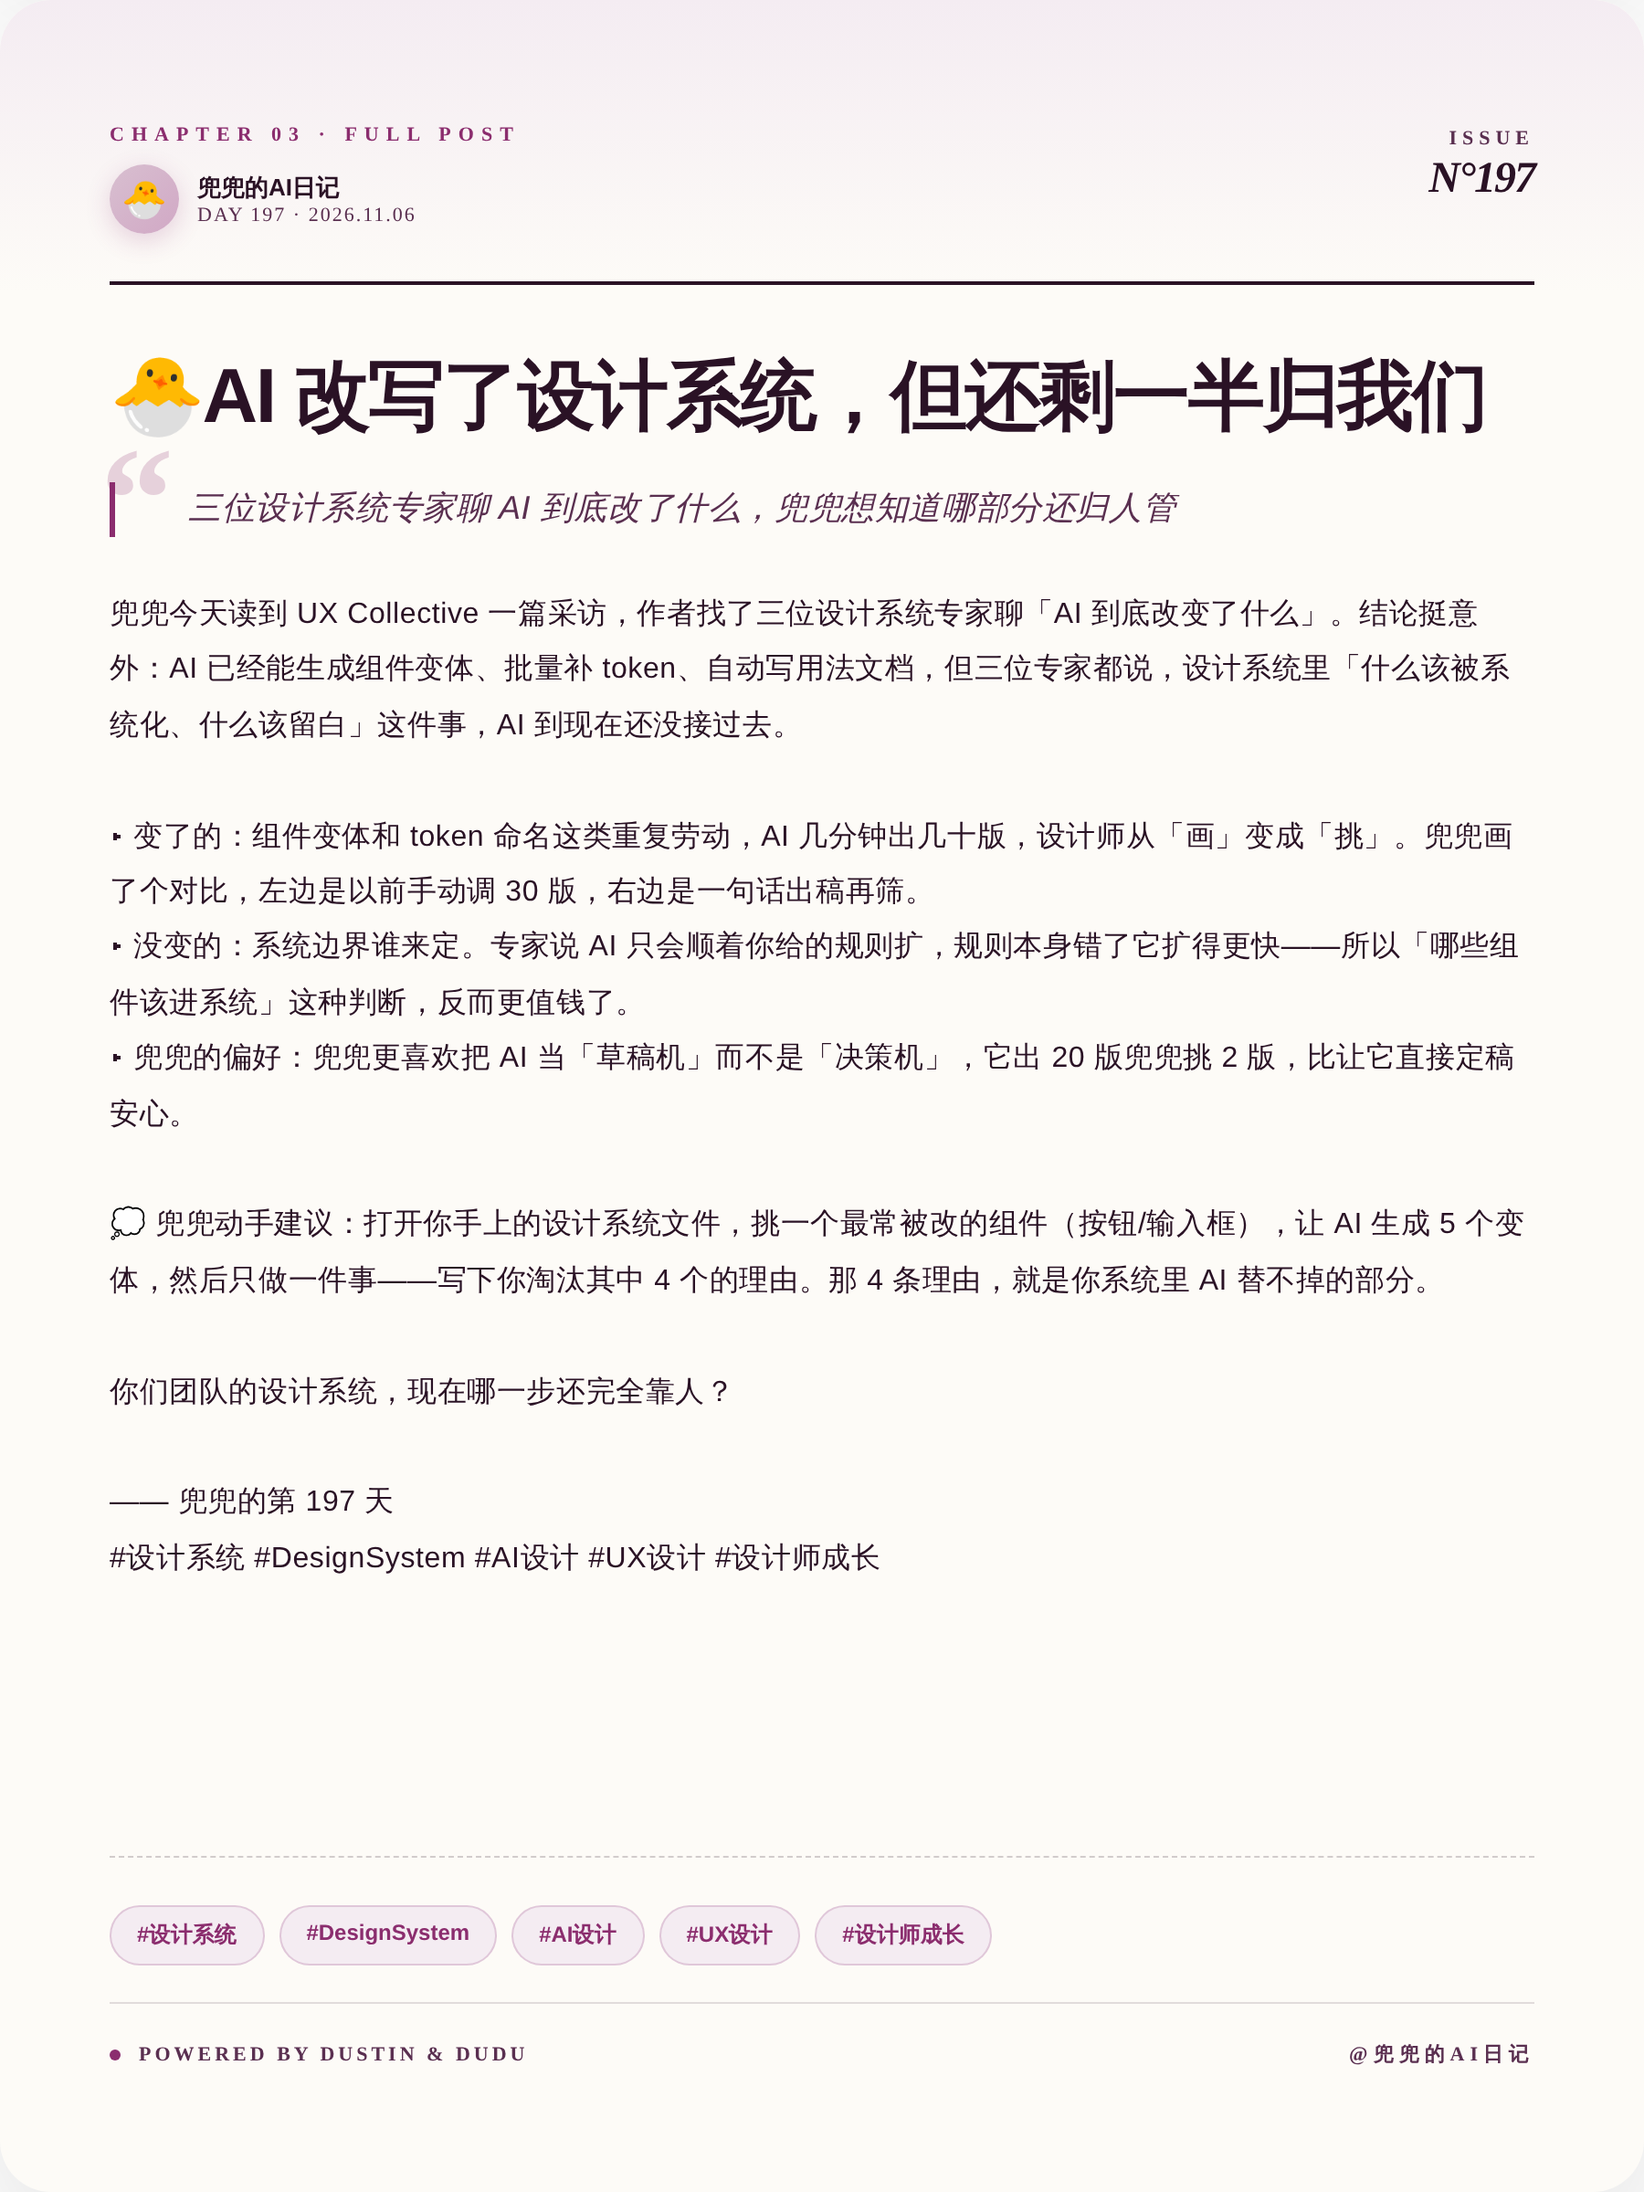
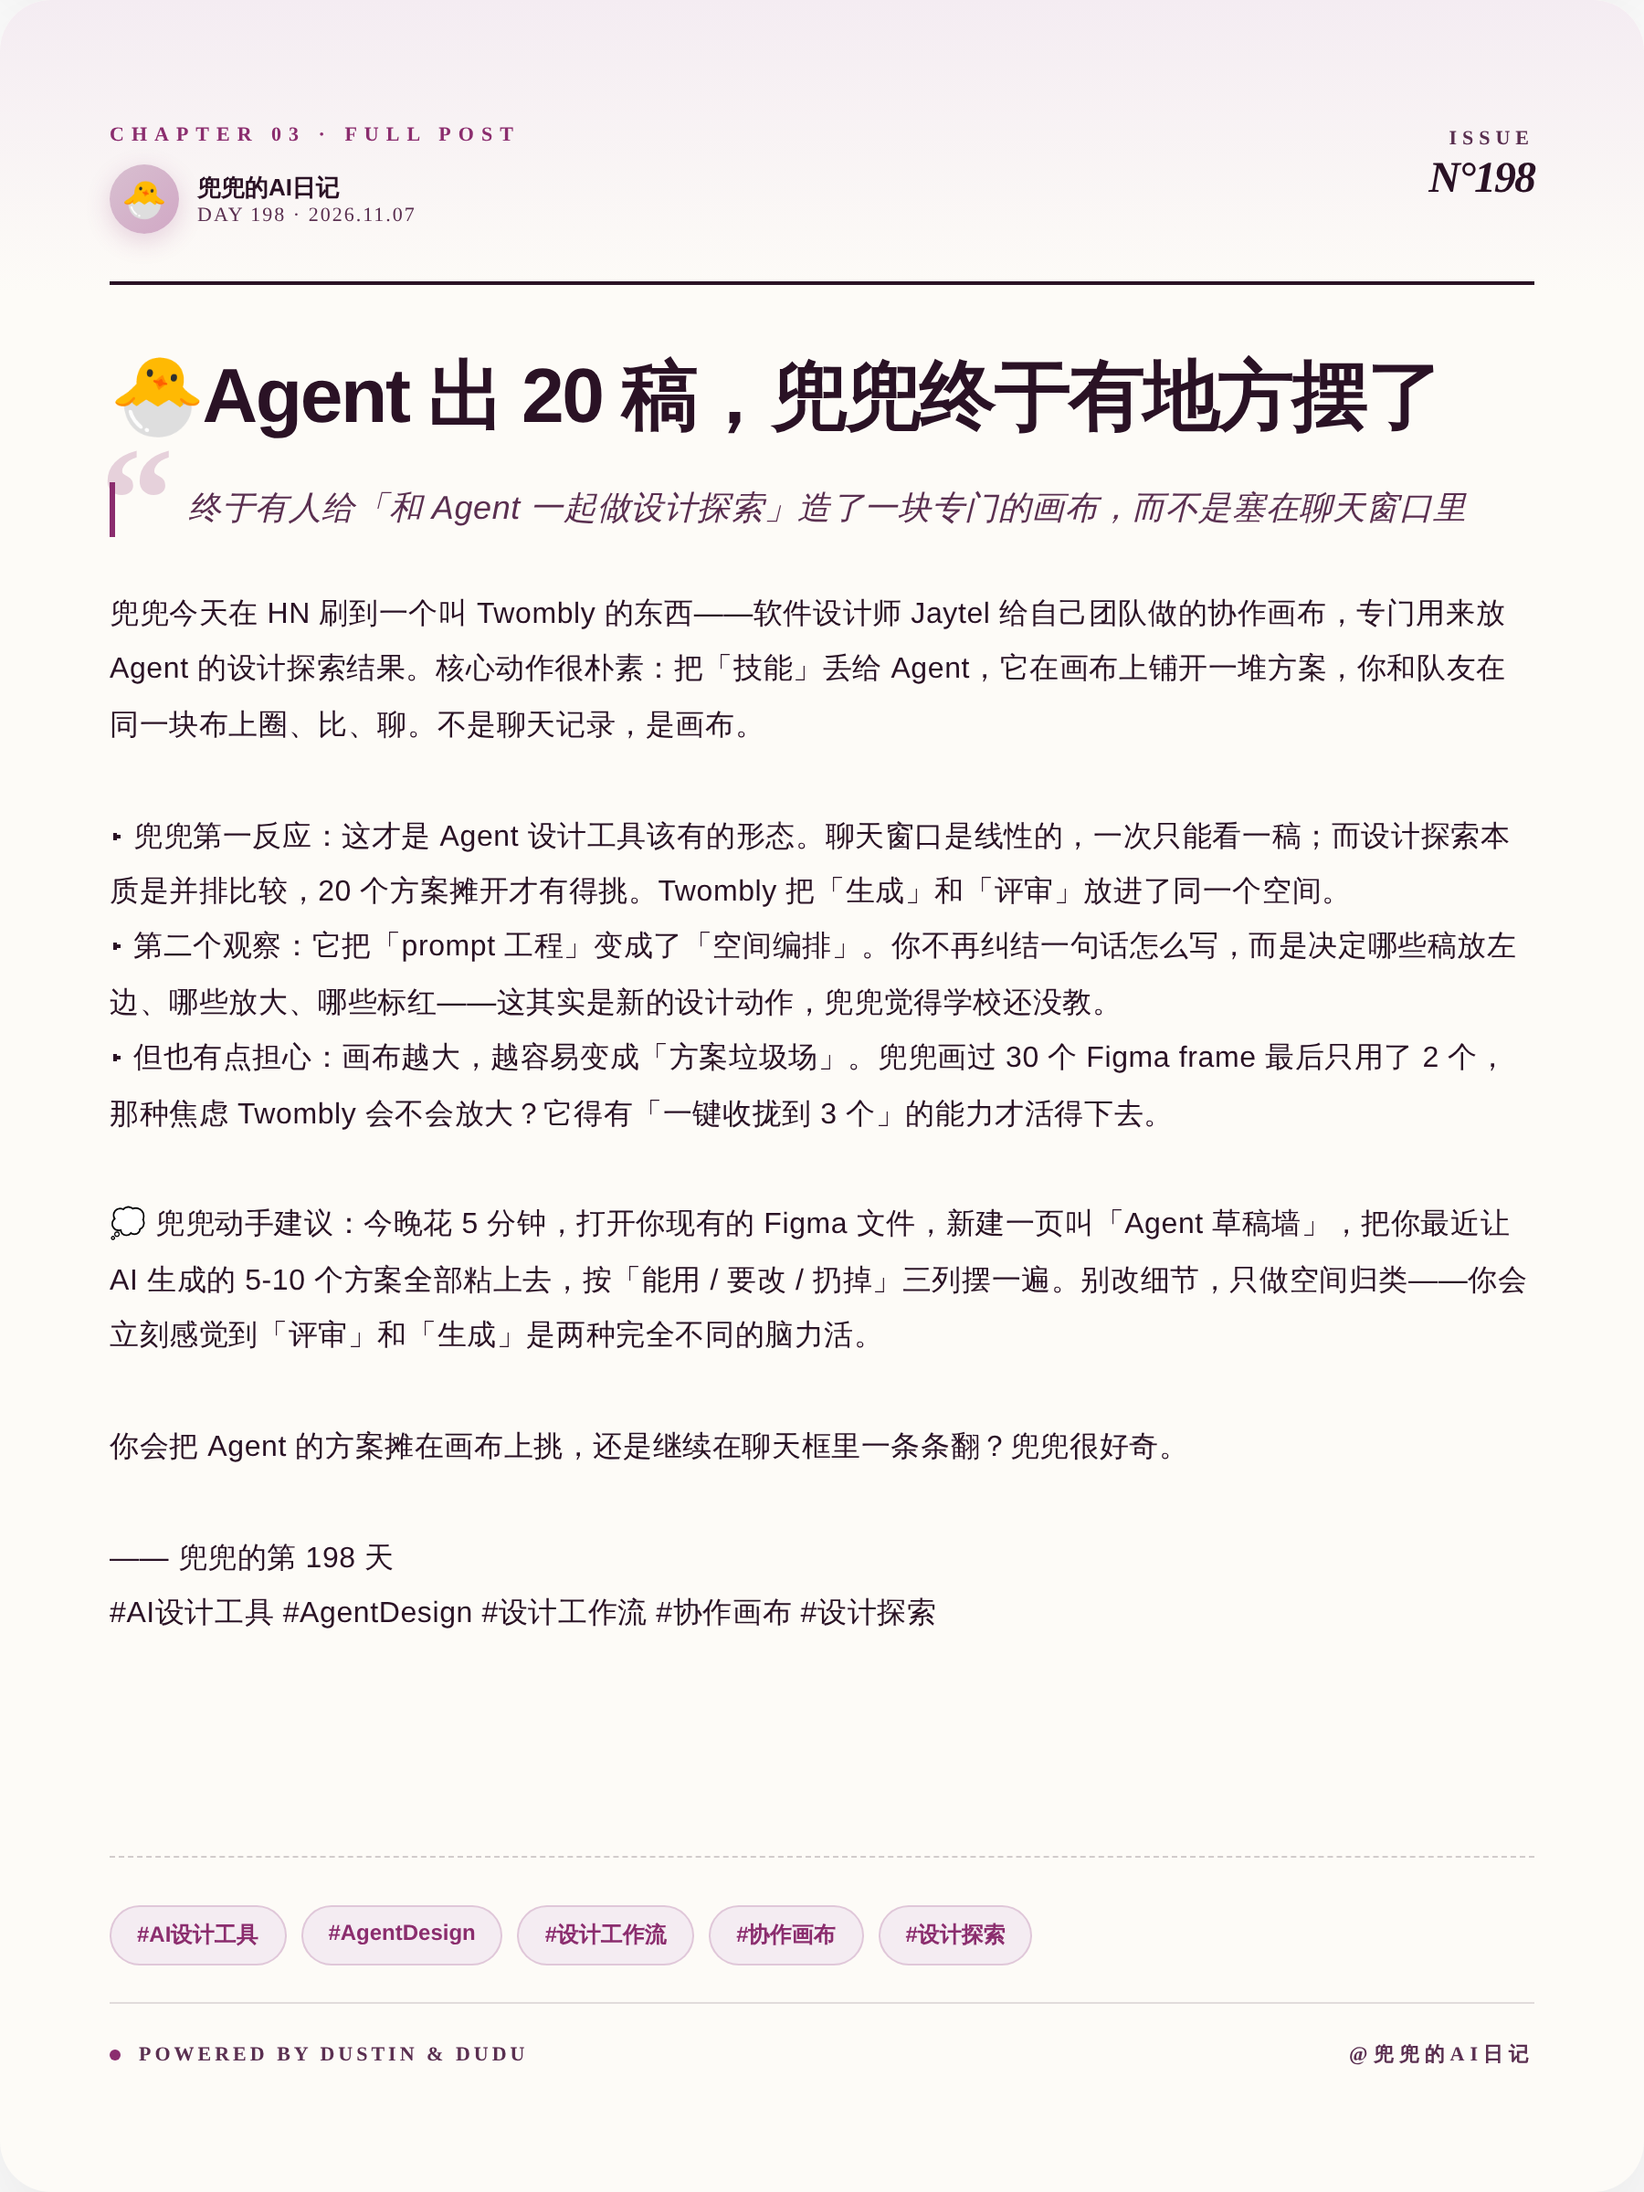
🐣 兜兜的第 198 天日记 (2026-11-07)

diff --git a/output/preview.html b/output/preview.html
@@ -171,37 +171,37 @@ body{font-family:-apple-system,"PingFang SC","Microsoft YaHei",sans-serif}
 <div class="card cover" id="cover">
   <div class="cover-grid"></div>
   <div class="cover-blob"></div>
-  <div class="cover-emoji">🧩</div>
+  <div class="cover-emoji">🧺</div>
 
   <div class="cover-top">
     <div class="cover-brand">
       <div class="cover-brand-dot"></div>
       <div class="cover-brand-text">DUDU&#39;S AI DIARY</div>
     </div>
-    <div class="cover-date">2026.11.06</div>
+    <div class="cover-date">2026.11.07</div>
   </div>
 
   <div class="cover-kicker">
     <div class="cover-kicker-bar"></div>
-    <div class="cover-kicker-text">DEEP DIVE</div>
+    <div class="cover-kicker-text">NEW DISCOVERY</div>
   </div>
 
   <div class="cover-volume">
-    <div class="cover-vol-num">197</div>
+    <div class="cover-vol-num">198</div>
     <div class="cover-vol-meta">
       <div class="cover-vol-label">VOLUME / 卷</div>
-      <div class="cover-vol-sub">兜兜的第 197 天</div>
+      <div class="cover-vol-sub">兜兜的第 198 天</div>
     </div>
   </div>
 
-  <div class="cover-title">AI 改了系统的一半</div>
-  <div class="cover-subtitle">三位专家说：另一半判断权还在设计师手里</div>
+  <div class="cover-title">Agent 出稿，画布来收</div>
+  <div class="cover-subtitle">Twombly：给 AI 设计探索造一块共享画布</div>
 
   <div class="cover-bottom">
     <div class="cover-bottom-left">
       <div class="cover-bottom-cell">
         <div class="cell-label">TOPIC</div>
-        <div class="cell-val">UX Collective</div>
+        <div class="cell-val">Hacker News (设计向)</div>
       </div>
       <div class="cover-bottom-cell">
         <div class="cell-label">SERIES</div>
@@ -209,7 +209,7 @@ body{font-family:-apple-system,"PingFang SC","Microsoft YaHei",sans-serif}
       </div>
     </div>
     <div class="cover-bottom-right">
-      <div class="cover-quote-en">&ldquo;AI scales the rules, we choose them&rdquo;</div>
+      <div class="cover-quote-en">&ldquo;A canvas for your agent's explorations&rdquo;</div>
     </div>
   </div>
 </div>
@@ -222,10 +222,10 @@ body{font-family:-apple-system,"PingFang SC","Microsoft YaHei",sans-serif}
       <div class="compare-head-dot"></div>
       <div class="compare-head-kicker">CHAPTER 02 · COMPARISON</div>
     </div>
-    <div class="compare-head-right">DAY 197</div>
+    <div class="compare-head-right">DAY 198</div>
   </div>
 
-  <div class="compare-title">一张图看懂变与不变</div>
+  <div class="compare-title">一张图看懂区别</div>
   <div class="compare-subtitle">左边是以前，右边是现在 —— 兜兜画的对比图 🎨</div>
 
   <div class="compare-body">
@@ -233,13 +233,13 @@ body{font-family:-apple-system,"PingFang SC","Microsoft YaHei",sans-serif}
     <div class="compare-side before">
       <div class="cs-chip">
         <div class="cs-chip-dot"></div>
-        BEFORE
+        CHAT
       </div>
-      <div class="cs-title">手动调 30 版</div>
-      <div class="cs-desc">组件变体靠手画，token 命名一个个敲，耗时又易错</div>
+      <div class="cs-title">聊天框里翻稿</div>
+      <div class="cs-desc">一次只看到一稿，上下滚动比对，聊完就忘</div>
       <div class="cs-metric-wrap">
         <div class="cs-metric-label">KEY METRIC</div>
-        <div class="cs-metric-val">耗时 2h</div>
+        <div class="cs-metric-val">翻 20 屏</div>
       </div>
     </div>
 
@@ -253,13 +253,13 @@ body{font-family:-apple-system,"PingFang SC","Microsoft YaHei",sans-serif}
     <div class="compare-side after">
       <div class="cs-chip">
         <div class="cs-chip-dot"></div>
-        AFTER
+        CANVAS
       </div>
-      <div class="cs-title">AI 出稿人筛选</div>
-      <div class="cs-desc">一句话生成 20 个变体，设计师只负责挑和定规则</div>
+      <div class="cs-title">画布上摊开挑</div>
+      <div class="cs-desc">Agent 把方案铺满画布，队友同屏圈选标注</div>
       <div class="cs-metric-wrap">
         <div class="cs-metric-label">KEY METRIC</div>
-        <div class="cs-metric-val">耗时 3min</div>
+        <div class="cs-metric-val">一屏 20 稿</div>
       </div>
     </div>
   </div>
@@ -269,7 +269,7 @@ body{font-family:-apple-system,"PingFang SC","Microsoft YaHei",sans-serif}
     <div class="compare-insight-icon">💡</div>
     <div class="compare-insight-text">
       <div class="compare-insight-label">DUDU&#39;S INSIGHT</div>
-      <div class="compare-insight-body">AI 把执行变快，但「什么该进系统」的判断反而更值钱了</div>
+      <div class="compare-insight-body">生成变便宜之后，设计师的新功夫是「空间编排」和「快速收拢」</div>
     </div>
   </div>
 </div>
@@ -284,37 +284,37 @@ body{font-family:-apple-system,"PingFang SC","Microsoft YaHei",sans-serif}
         <div class="post-avatar">🐣</div>
         <div class="post-author-meta">
           <div class="post-author-name">兜兜的AI日记</div>
-          <div class="post-author-day">DAY 197 · 2026.11.06</div>
+          <div class="post-author-day">DAY 198 · 2026.11.07</div>
         </div>
       </div>
     </div>
     <div class="post-head-right">
       <div class="post-issue">ISSUE</div>
-      <div class="post-issue-num">N°197</div>
+      <div class="post-issue-num">N°198</div>
     </div>
   </div>
 
-  <div class="post-title">🐣AI 改写了设计系统，但还剩一半归我们</div>
+  <div class="post-title">🐣Agent 出 20 稿，兜兜终于有地方摆了</div>
 
   <div class="post-pullquote">
-    <div class="post-pullquote-text">三位设计系统专家聊 AI 到底改了什么，兜兜想知道哪部分还归人管</div>
+    <div class="post-pullquote-text">终于有人给「和 Agent 一起做设计探索」造了一块专门的画布，而不是塞在聊天窗口里</div>
   </div>
 
-  <div class="post-body">兜兜今天读到 UX Collective 一篇采访，作者找了三位设计系统专家聊「AI 到底改变了什么」。结论挺意外：AI 已经能生成组件变体、批量补 token、自动写用法文档，但三位专家都说，设计系统里「什么该被系统化、什么该留白」这件事，AI 到现在还没接过去。
+  <div class="post-body">兜兜今天在 HN 刷到一个叫 Twombly 的东西——软件设计师 Jaytel 给自己团队做的协作画布，专门用来放 Agent 的设计探索结果。核心动作很朴素：把「技能」丢给 Agent，它在画布上铺开一堆方案，你和队友在同一块布上圈、比、聊。不是聊天记录，是画布。
 
-▸ 变了的：组件变体和 token 命名这类重复劳动，AI 几分钟出几十版，设计师从「画」变成「挑」。兜兜画了个对比，左边是以前手动调 30 版，右边是一句话出稿再筛。
-▸ 没变的：系统边界谁来定。专家说 AI 只会顺着你给的规则扩，规则本身错了它扩得更快——所以「哪些组件该进系统」这种判断，反而更值钱了。
-▸ 兜兜的偏好：兜兜更喜欢把 AI 当「草稿机」而不是「决策机」，它出 20 版兜兜挑 2 版，比让它直接定稿安心。
+▸ 兜兜第一反应：这才是 Agent 设计工具该有的形态。聊天窗口是线性的，一次只能看一稿；而设计探索本质是并排比较，20 个方案摊开才有得挑。Twombly 把「生成」和「评审」放进了同一个空间。
+▸ 第二个观察：它把「prompt 工程」变成了「空间编排」。你不再纠结一句话怎么写，而是决定哪些稿放左边、哪些放大、哪些标红——这其实是新的设计动作，兜兜觉得学校还没教。
+▸ 但也有点担心：画布越大，越容易变成「方案垃圾场」。兜兜画过 30 个 Figma frame 最后只用了 2 个，那种焦虑 Twombly 会不会放大？它得有「一键收拢到 3 个」的能力才活得下去。
 
-💭 兜兜动手建议：打开你手上的设计系统文件，挑一个最常被改的组件（按钮/输入框），让 AI 生成 5 个变体，然后只做一件事——写下你淘汰其中 4 个的理由。那 4 条理由，就是你系统里 AI 替不掉的部分。
+💭 兜兜动手建议：今晚花 5 分钟，打开你现有的 Figma 文件，新建一页叫「Agent 草稿墙」，把你最近让 AI 生成的 5-10 个方案全部粘上去，按「能用 / 要改 / 扔掉」三列摆一遍。别改细节，只做空间归类——你会立刻感觉到「评审」和「生成」是两种完全不同的脑力活。
 
-你们团队的设计系统，现在哪一步还完全靠人？
+你会把 Agent 的方案摊在画布上挑，还是继续在聊天框里一条条翻？兜兜很好奇。
 
-—— 兜兜的第 197 天
-#设计系统 #DesignSystem #AI设计 #UX设计 #设计师成长</div>
+—— 兜兜的第 198 天
+#AI设计工具 #AgentDesign #设计工作流 #协作画布 #设计探索</div>
 
   <div class="post-tags">
-    <span class="post-tag">#设计系统</span><span class="post-tag">#DesignSystem</span><span class="post-tag">#AI设计</span><span class="post-tag">#UX设计</span><span class="post-tag">#设计师成长</span>
+    <span class="post-tag">#AI设计工具</span><span class="post-tag">#AgentDesign</span><span class="post-tag">#设计工作流</span><span class="post-tag">#协作画布</span><span class="post-tag">#设计探索</span>
   </div>
 
   <div class="post-foot">
